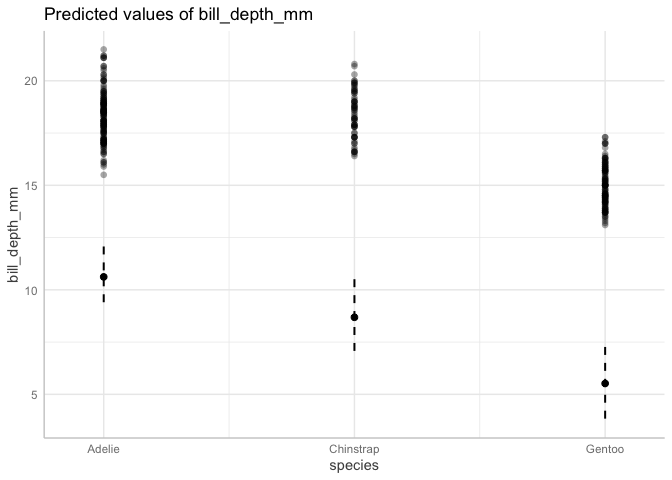
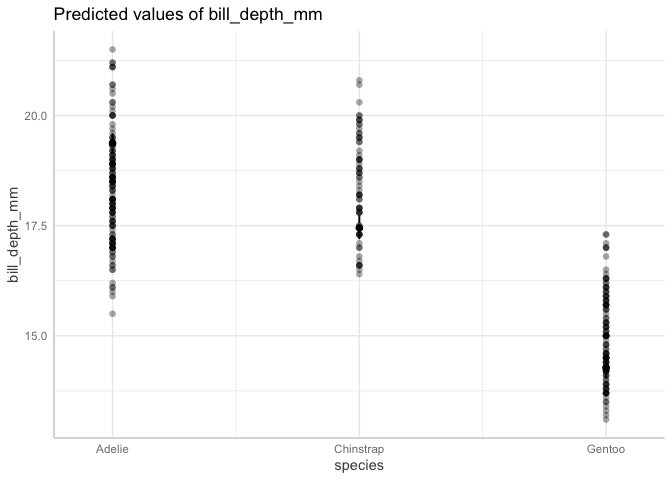
Added caveat about plotting predictions not working quite as expected

diff --git a/README.md b/README.md
@@ -535,13 +535,33 @@ sentences here)
 
 ------------------------------------------------------------------------
 
-#### Plot predictions (not working as expected)
+#### Plot predictions
+
+Last activity you were asked to plot the model predictions using the
+`predict_response()` function. Doing this for an additive model changes
+things up a bit. Let’s try it:
 
 ``` r
 # compatibility interval. the shows uncertainty in the average response.
-confm.depth.length.species <- predict_response(m.depth.length.species,
-                                               condition = c(bill_length_mm = 0,
-                                                             species = c(penguins$species %>% unique())))
+confm.depth.length.species <- predict_response(m.depth.length.species)
+
+plot(confm.depth.length.species, show_data = TRUE)
+```
+
+    $bill_length_mm
+
+![](README_files/figure-commonmark/unnamed-chunk-18-1.png)
+
+
+    $species
+
+![](README_files/figure-commonmark/unnamed-chunk-18-2.png)
+
+Note that it gives you two graphs: One for the slope estimate, one for
+each species’ intercept estimates. The slope is only plotted for one
+species though. Let’s take a look at the function output:
+
+``` r
 confm.depth.length.species
 ```
 
@@ -564,30 +584,30 @@ confm.depth.length.species
     $species
     # Predicted values of bill_depth_mm
 
-    species   | Predicted |      95% CI
-    -----------------------------------
-    Adelie    |     10.62 | 9.22, 12.07
-    Chinstrap |      8.69 | 6.93, 10.51
-    Gentoo    |      5.52 | 3.80,  7.27
+    species   | Predicted |       95% CI
+    ------------------------------------
+    Adelie    |     19.37 | 19.13, 19.60
+    Chinstrap |     17.45 | 17.17, 17.74
+    Gentoo    |     14.27 | 14.06, 14.48
 
+    Adjusted for:
+    * bill_length_mm = 43.92
 
     attr(,"class")
     [1] "ggalleffects" "list"        
     attr(,"model.name")
     [1] "m.depth.length.species"
 
-``` r
-plot(confm.depth.length.species, show_data = TRUE) 
-```
+The output specifies that it plotted the slope
+`Adjusted for: * species = Adelie` and it plotted the species intercepts
+`Adjusted for: * bill_length_mm = 43.92`. This means that it just chose
+a value of each predictor to report the OTHER predictor’s output at. You
+can adjust which value it chooses with the `condition =` argument.
 
-    $bill_length_mm
+We are going to try and find a better way to plot `brm` model output for
+next time, so don’t worry too much about this right now!
 
-![](README_files/figure-commonmark/unnamed-chunk-18-1.png)
-
-
-    $species
-
-![](README_files/figure-commonmark/unnamed-chunk-18-2.png)
+We can do this for the prediction interval too
 
 ``` r
 # prediction interval. this shows uncertainty in the data around the average response.
@@ -597,12 +617,12 @@ plot(confm.depth.length.species, show_data = TRUE)
 
     $bill_length_mm
 
-![](README_files/figure-commonmark/unnamed-chunk-19-1.png)
+![](README_files/figure-commonmark/unnamed-chunk-20-1.png)
 
 
     $species
 
-![](README_files/figure-commonmark/unnamed-chunk-19-2.png)
+![](README_files/figure-commonmark/unnamed-chunk-20-2.png)
 
 ------------------------------------------------------------------------
 
@@ -660,14 +680,7 @@ Interpret your model by answering:
 
 ------------------------------------------------------------------------
 
-### Q2.6 Plot the model on the data
-
-Plot either a compatibility interval or prediction interval on the data;
-specify which you are using.
-
-------------------------------------------------------------------------
-
-### Q2.7 Write a small results paragraph
+### Q2.6 Write a small results paragraph
 
 Including the information from Q2.6, write 2-3 sentences as if you were
 writing the results section of a scientific paper. Include a conclusion
